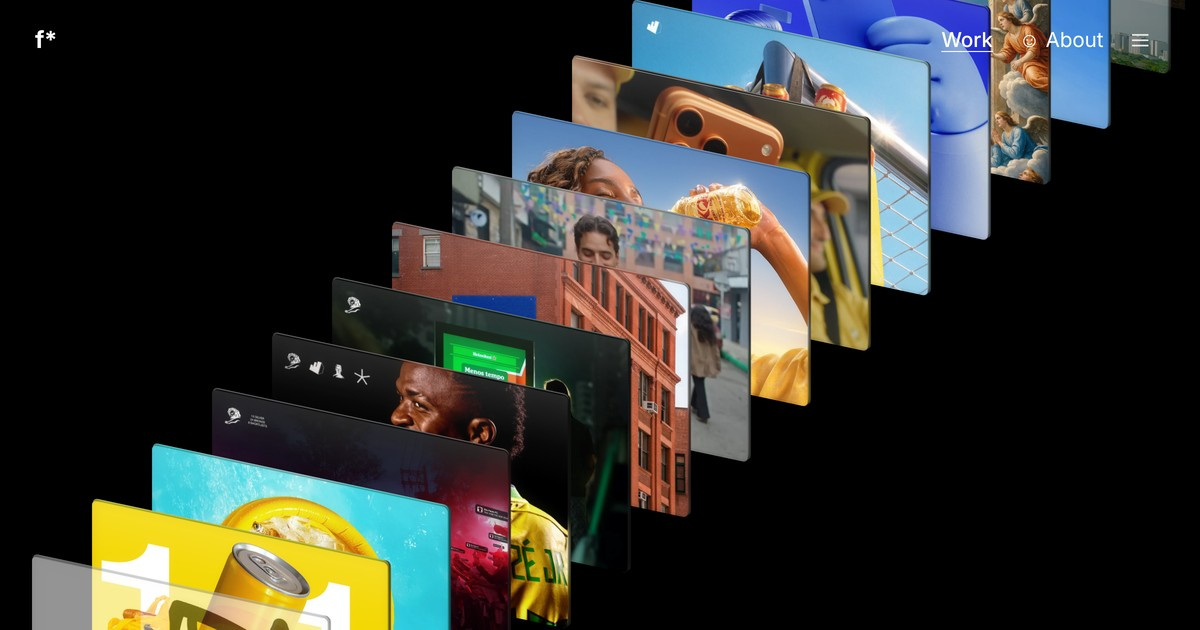
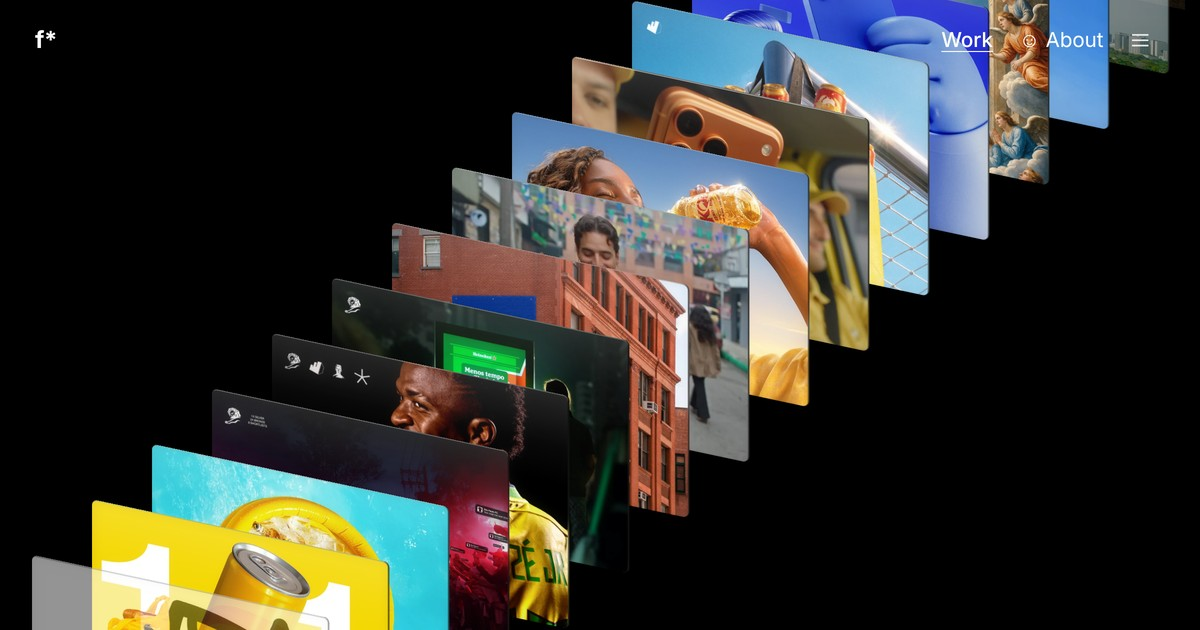
Pilha: espessura 2px mais fina
Claude-Session: https://claude.ai/code/session_01Cy34iprZWCRw34QxSAkRPn

diff --git a/site/404.html b/site/404.html
@@ -9,7 +9,7 @@
 <meta property="og:description" content="Flávio Salzer is a Creative Director and Art Director based in São Paulo. Former LePub and Africa, now back at GUT. Selected work for Zé Delivery, Heineken, New Balance, Skol and more.">
 <meta property="og:type" content="website">
 <meta property="og:url" content="https://flaviosalzer.com/">
-<meta property="og:image" content="https://flaviosalzer.com/og/home.jpg?v=bc4d255a">
+<meta property="og:image" content="https://flaviosalzer.com/og/home.jpg?v=4c6381f7">
 <meta property="og:image:width" content="1200">
 <meta property="og:image:height" content="630">
 <meta name="twitter:card" content="summary_large_image">
@@ -371,9 +371,9 @@ html,body{background:#000}
    corners, tinted by the cover's own (blurred) edge colours: the top lit, the side in shade. */
 .dk-b{position:absolute;inset:0;border-radius:5px;overflow:hidden;pointer-events:none;background:#222}
 .dk-b img{display:block;width:100%;height:100%;object-fit:cover;filter:blur(6px) saturate(1.25)}
-.dk-b1{transform:translate(3px,-2.5px)}
+.dk-b1{transform:translate(1.5px,-1px)}
 .dk-b1 img{filter:blur(6px) saturate(1.25) brightness(.55)}
-.dk-b2{transform:translate(1px,-2.5px)}
+.dk-b2{transform:translate(.5px,-1px)}
 .dk-b2 img{filter:blur(6px) saturate(1.2) brightness(1.3)}
 .dk-b2::after{content:"";position:absolute;inset:0;border-radius:inherit;box-shadow:inset 0 1px 0 rgba(255,255,255,.35)}
 .dk-face,.dk-face::after{border-radius:5px}

diff --git a/site/index.html b/site/index.html
@@ -9,7 +9,7 @@
 <meta property="og:description" content="Flávio Salzer is a Creative Director and Art Director based in São Paulo. Former LePub and Africa, now back at GUT. Selected work for Zé Delivery, Heineken, New Balance, Skol and more.">
 <meta property="og:type" content="website">
 <meta property="og:url" content="https://flaviosalzer.com/">
-<meta property="og:image" content="https://flaviosalzer.com/og/home.jpg?v=bc4d255a">
+<meta property="og:image" content="https://flaviosalzer.com/og/home.jpg?v=4c6381f7">
 <meta property="og:image:width" content="1200">
 <meta property="og:image:height" content="630">
 <meta name="twitter:card" content="summary_large_image">
@@ -371,9 +371,9 @@ html,body{background:#000}
    corners, tinted by the cover's own (blurred) edge colours: the top lit, the side in shade. */
 .dk-b{position:absolute;inset:0;border-radius:5px;overflow:hidden;pointer-events:none;background:#222}
 .dk-b img{display:block;width:100%;height:100%;object-fit:cover;filter:blur(6px) saturate(1.25)}
-.dk-b1{transform:translate(3px,-2.5px)}
+.dk-b1{transform:translate(1.5px,-1px)}
 .dk-b1 img{filter:blur(6px) saturate(1.25) brightness(.55)}
-.dk-b2{transform:translate(1px,-2.5px)}
+.dk-b2{transform:translate(.5px,-1px)}
 .dk-b2 img{filter:blur(6px) saturate(1.2) brightness(1.3)}
 .dk-b2::after{content:"";position:absolute;inset:0;border-radius:inherit;box-shadow:inset 0 1px 0 rgba(255,255,255,.35)}
 .dk-face,.dk-face::after{border-radius:5px}

diff --git a/site/ai-assisted/index.html b/site/ai-assisted/index.html
@@ -371,9 +371,9 @@ html,body{background:#000}
    corners, tinted by the cover's own (blurred) edge colours: the top lit, the side in shade. */
 .dk-b{position:absolute;inset:0;border-radius:5px;overflow:hidden;pointer-events:none;background:#222}
 .dk-b img{display:block;width:100%;height:100%;object-fit:cover;filter:blur(6px) saturate(1.25)}
-.dk-b1{transform:translate(3px,-2.5px)}
+.dk-b1{transform:translate(1.5px,-1px)}
 .dk-b1 img{filter:blur(6px) saturate(1.25) brightness(.55)}
-.dk-b2{transform:translate(1px,-2.5px)}
+.dk-b2{transform:translate(.5px,-1px)}
 .dk-b2 img{filter:blur(6px) saturate(1.2) brightness(1.3)}
 .dk-b2::after{content:"";position:absolute;inset:0;border-radius:inherit;box-shadow:inset 0 1px 0 rgba(255,255,255,.35)}
 .dk-face,.dk-face::after{border-radius:5px}

diff --git a/site/ceu-azul/index.html b/site/ceu-azul/index.html
@@ -371,9 +371,9 @@ html,body{background:#000}
    corners, tinted by the cover's own (blurred) edge colours: the top lit, the side in shade. */
 .dk-b{position:absolute;inset:0;border-radius:5px;overflow:hidden;pointer-events:none;background:#222}
 .dk-b img{display:block;width:100%;height:100%;object-fit:cover;filter:blur(6px) saturate(1.25)}
-.dk-b1{transform:translate(3px,-2.5px)}
+.dk-b1{transform:translate(1.5px,-1px)}
 .dk-b1 img{filter:blur(6px) saturate(1.25) brightness(.55)}
-.dk-b2{transform:translate(1px,-2.5px)}
+.dk-b2{transform:translate(.5px,-1px)}
 .dk-b2 img{filter:blur(6px) saturate(1.2) brightness(1.3)}
 .dk-b2::after{content:"";position:absolute;inset:0;border-radius:inherit;box-shadow:inset 0 1px 0 rgba(255,255,255,.35)}
 .dk-face,.dk-face::after{border-radius:5px}

diff --git a/site/congress-league/index.html b/site/congress-league/index.html
@@ -371,9 +371,9 @@ html,body{background:#000}
    corners, tinted by the cover's own (blurred) edge colours: the top lit, the side in shade. */
 .dk-b{position:absolute;inset:0;border-radius:5px;overflow:hidden;pointer-events:none;background:#222}
 .dk-b img{display:block;width:100%;height:100%;object-fit:cover;filter:blur(6px) saturate(1.25)}
-.dk-b1{transform:translate(3px,-2.5px)}
+.dk-b1{transform:translate(1.5px,-1px)}
 .dk-b1 img{filter:blur(6px) saturate(1.25) brightness(.55)}
-.dk-b2{transform:translate(1px,-2.5px)}
+.dk-b2{transform:translate(.5px,-1px)}
 .dk-b2 img{filter:blur(6px) saturate(1.2) brightness(1.3)}
 .dk-b2::after{content:"";position:absolute;inset:0;border-radius:inherit;box-shadow:inset 0 1px 0 rgba(255,255,255,.35)}
 .dk-face,.dk-face::after{border-radius:5px}

diff --git a/site/copia-de-iphone-17pro-x-mercado-libre/index.html b/site/copia-de-iphone-17pro-x-mercado-libre/index.html
@@ -371,9 +371,9 @@ html,body{background:#000}
    corners, tinted by the cover's own (blurred) edge colours: the top lit, the side in shade. */
 .dk-b{position:absolute;inset:0;border-radius:5px;overflow:hidden;pointer-events:none;background:#222}
 .dk-b img{display:block;width:100%;height:100%;object-fit:cover;filter:blur(6px) saturate(1.25)}
-.dk-b1{transform:translate(3px,-2.5px)}
+.dk-b1{transform:translate(1.5px,-1px)}
 .dk-b1 img{filter:blur(6px) saturate(1.25) brightness(.55)}
-.dk-b2{transform:translate(1px,-2.5px)}
+.dk-b2{transform:translate(.5px,-1px)}
 .dk-b2 img{filter:blur(6px) saturate(1.2) brightness(1.3)}
 .dk-b2::after{content:"";position:absolute;inset:0;border-radius:inherit;box-shadow:inset 0 1px 0 rgba(255,255,255,.35)}
 .dk-face,.dk-face::after{border-radius:5px}

diff --git a/site/delivery-pool/index.html b/site/delivery-pool/index.html
@@ -371,9 +371,9 @@ html,body{background:#000}
    corners, tinted by the cover's own (blurred) edge colours: the top lit, the side in shade. */
 .dk-b{position:absolute;inset:0;border-radius:5px;overflow:hidden;pointer-events:none;background:#222}
 .dk-b img{display:block;width:100%;height:100%;object-fit:cover;filter:blur(6px) saturate(1.25)}
-.dk-b1{transform:translate(3px,-2.5px)}
+.dk-b1{transform:translate(1.5px,-1px)}
 .dk-b1 img{filter:blur(6px) saturate(1.25) brightness(.55)}
-.dk-b2{transform:translate(1px,-2.5px)}
+.dk-b2{transform:translate(.5px,-1px)}
 .dk-b2 img{filter:blur(6px) saturate(1.2) brightness(1.3)}
 .dk-b2::after{content:"";position:absolute;inset:0;border-radius:inherit;box-shadow:inset 0 1px 0 rgba(255,255,255,.35)}
 .dk-face,.dk-face::after{border-radius:5px}

diff --git a/site/finishline-club/index.html b/site/finishline-club/index.html
@@ -371,9 +371,9 @@ html,body{background:#000}
    corners, tinted by the cover's own (blurred) edge colours: the top lit, the side in shade. */
 .dk-b{position:absolute;inset:0;border-radius:5px;overflow:hidden;pointer-events:none;background:#222}
 .dk-b img{display:block;width:100%;height:100%;object-fit:cover;filter:blur(6px) saturate(1.25)}
-.dk-b1{transform:translate(3px,-2.5px)}
+.dk-b1{transform:translate(1.5px,-1px)}
 .dk-b1 img{filter:blur(6px) saturate(1.25) brightness(.55)}
-.dk-b2{transform:translate(1px,-2.5px)}
+.dk-b2{transform:translate(.5px,-1px)}
 .dk-b2 img{filter:blur(6px) saturate(1.2) brightness(1.3)}
 .dk-b2::after{content:"";position:absolute;inset:0;border-radius:inherit;box-shadow:inset 0 1px 0 rgba(255,255,255,.35)}
 .dk-face,.dk-face::after{border-radius:5px}

diff --git a/site/flavio/index.html b/site/flavio/index.html
@@ -371,9 +371,9 @@ html,body{background:#000}
    corners, tinted by the cover's own (blurred) edge colours: the top lit, the side in shade. */
 .dk-b{position:absolute;inset:0;border-radius:5px;overflow:hidden;pointer-events:none;background:#222}
 .dk-b img{display:block;width:100%;height:100%;object-fit:cover;filter:blur(6px) saturate(1.25)}
-.dk-b1{transform:translate(3px,-2.5px)}
+.dk-b1{transform:translate(1.5px,-1px)}
 .dk-b1 img{filter:blur(6px) saturate(1.25) brightness(.55)}
-.dk-b2{transform:translate(1px,-2.5px)}
+.dk-b2{transform:translate(.5px,-1px)}
 .dk-b2 img{filter:blur(6px) saturate(1.2) brightness(1.3)}
 .dk-b2::after{content:"";position:absolute;inset:0;border-radius:inherit;box-shadow:inset 0 1px 0 rgba(255,255,255,.35)}
 .dk-face,.dk-face::after{border-radius:5px}

diff --git a/site/flexmode/index.html b/site/flexmode/index.html
@@ -371,9 +371,9 @@ html,body{background:#000}
    corners, tinted by the cover's own (blurred) edge colours: the top lit, the side in shade. */
 .dk-b{position:absolute;inset:0;border-radius:5px;overflow:hidden;pointer-events:none;background:#222}
 .dk-b img{display:block;width:100%;height:100%;object-fit:cover;filter:blur(6px) saturate(1.25)}
-.dk-b1{transform:translate(3px,-2.5px)}
+.dk-b1{transform:translate(1.5px,-1px)}
 .dk-b1 img{filter:blur(6px) saturate(1.25) brightness(.55)}
-.dk-b2{transform:translate(1px,-2.5px)}
+.dk-b2{transform:translate(.5px,-1px)}
 .dk-b2 img{filter:blur(6px) saturate(1.2) brightness(1.3)}
 .dk-b2::after{content:"";position:absolute;inset:0;border-radius:inherit;box-shadow:inset 0 1px 0 rgba(255,255,255,.35)}
 .dk-face,.dk-face::after{border-radius:5px}

diff --git a/site/followers/index.html b/site/followers/index.html
@@ -371,9 +371,9 @@ html,body{background:#000}
    corners, tinted by the cover's own (blurred) edge colours: the top lit, the side in shade. */
 .dk-b{position:absolute;inset:0;border-radius:5px;overflow:hidden;pointer-events:none;background:#222}
 .dk-b img{display:block;width:100%;height:100%;object-fit:cover;filter:blur(6px) saturate(1.25)}
-.dk-b1{transform:translate(3px,-2.5px)}
+.dk-b1{transform:translate(1.5px,-1px)}
 .dk-b1 img{filter:blur(6px) saturate(1.25) brightness(.55)}
-.dk-b2{transform:translate(1px,-2.5px)}
+.dk-b2{transform:translate(.5px,-1px)}
 .dk-b2 img{filter:blur(6px) saturate(1.2) brightness(1.3)}
 .dk-b2::after{content:"";position:absolute;inset:0;border-radius:inherit;box-shadow:inset 0 1px 0 rgba(255,255,255,.35)}
 .dk-face,.dk-face::after{border-radius:5px}

diff --git a/site/hh-virtual-skol/index.html b/site/hh-virtual-skol/index.html
@@ -371,9 +371,9 @@ html,body{background:#000}
    corners, tinted by the cover's own (blurred) edge colours: the top lit, the side in shade. */
 .dk-b{position:absolute;inset:0;border-radius:5px;overflow:hidden;pointer-events:none;background:#222}
 .dk-b img{display:block;width:100%;height:100%;object-fit:cover;filter:blur(6px) saturate(1.25)}
-.dk-b1{transform:translate(3px,-2.5px)}
+.dk-b1{transform:translate(1.5px,-1px)}
 .dk-b1 img{filter:blur(6px) saturate(1.25) brightness(.55)}
-.dk-b2{transform:translate(1px,-2.5px)}
+.dk-b2{transform:translate(.5px,-1px)}
 .dk-b2 img{filter:blur(6px) saturate(1.2) brightness(1.3)}
 .dk-b2::after{content:"";position:absolute;inset:0;border-radius:inherit;box-shadow:inset 0 1px 0 rgba(255,255,255,.35)}
 .dk-face,.dk-face::after{border-radius:5px}
